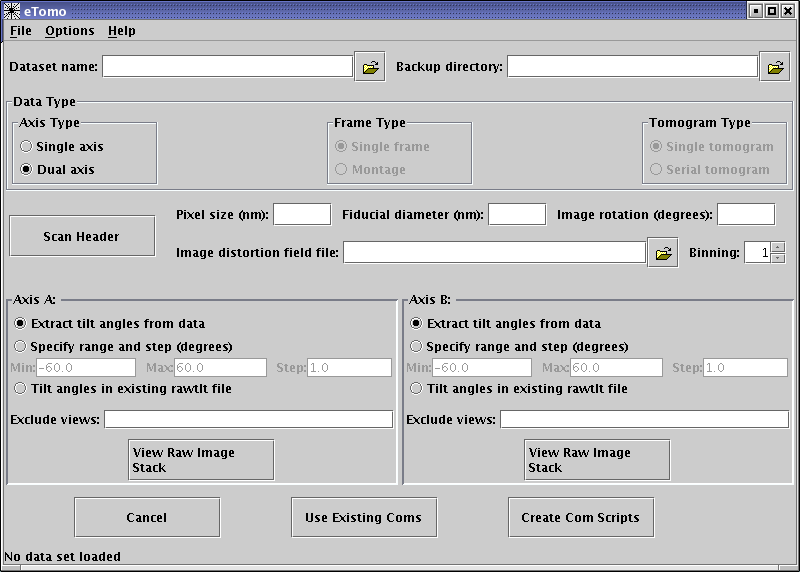
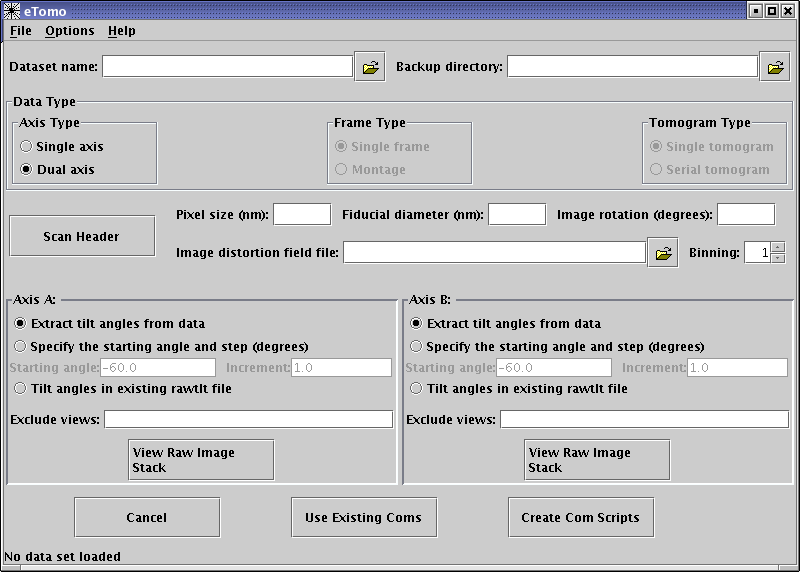
*** empty log message ***

Changed region(s): [[0.5, 0.5944, 0.9062, 0.6836], [0.0, 0.5944, 0.4062, 0.6836]]

diff --git a/html/tomoguide.html b/html/tomoguide.html
@@ -310,7 +310,7 @@ tilt angles that are needed by <A HREF = "man/beadtrack.html">Beadtrack</A>,
 extracted from the extended header in the image file.  This will
 work with files produced by SerialEM, as well as with files using the
 Agard extended header format.
-Second, you can specify the starting, ending, and increment tilt angles.
+Second, you can specify the starting and increment tilt angles.
 Third, you can supply a file with the tilt angles, one per line.
 A file
 with raw tilt values should be named "setname.rawtlt".  If you have 
